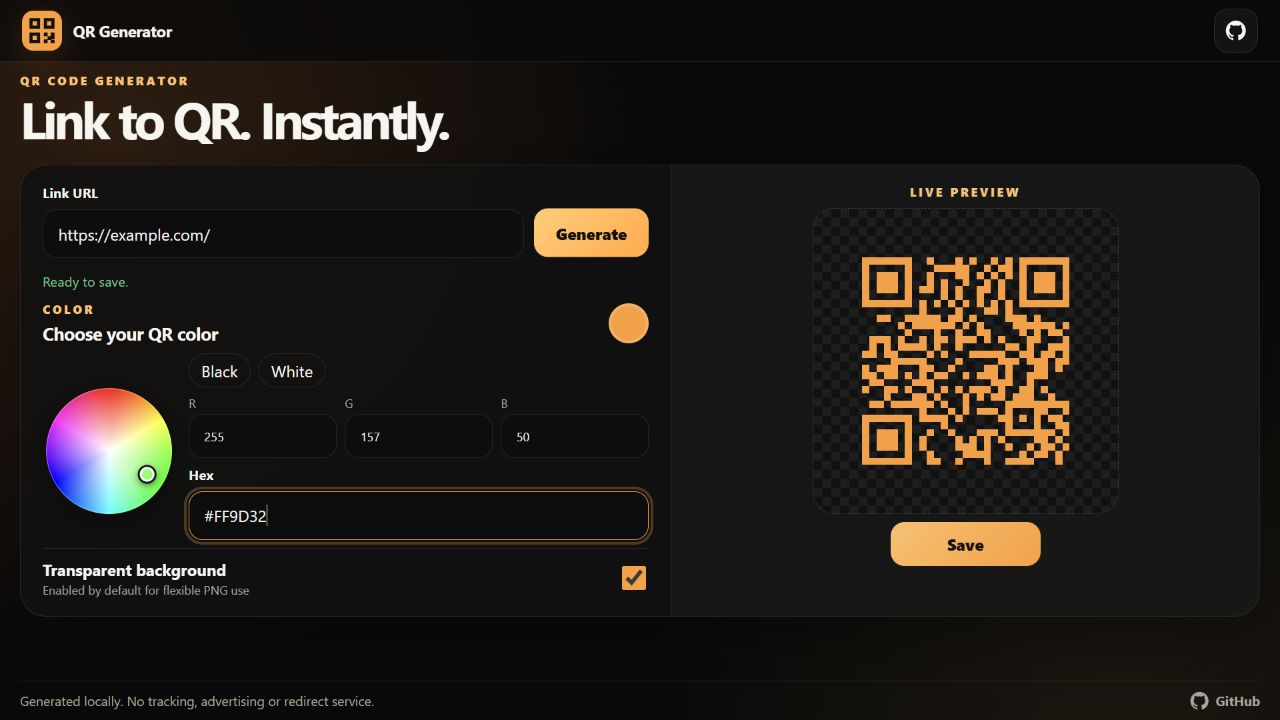
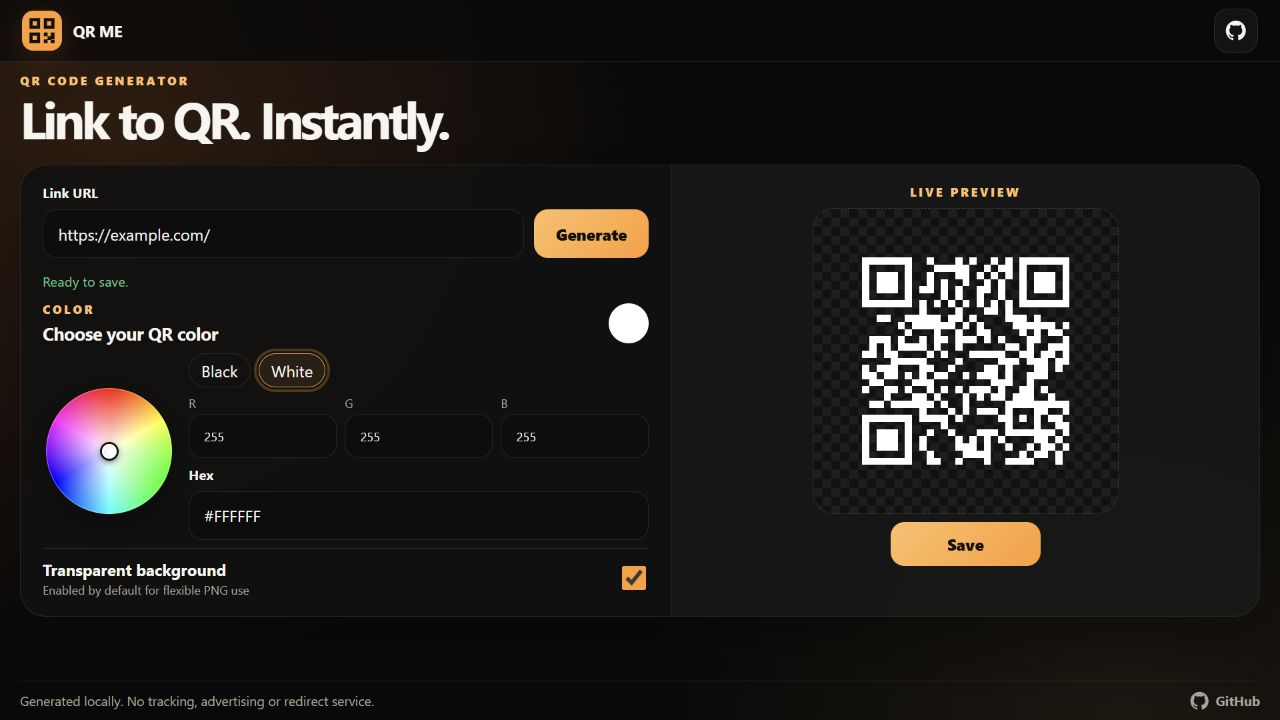
Update QR ME preview branding

diff --git a/index.html b/index.html
@@ -20,7 +20,7 @@
     <header class="site-header">
       <a class="brand" href="./" aria-label="QR Generator home">
         <img src="./static/icons/qr-logo.svg" alt="" width="44" height="44">
-        <span>QR Generator</span>
+        <span>QR ME</span>
       </a>
       <a class="github-button" href="https://github.com/jonaidaydi/QR-Generator" target="_blank" rel="noopener noreferrer" aria-label="Open this project on GitHub">
         <svg viewBox="0 0 24 24" aria-hidden="true"><path d="M12 .7a11.5 11.5 0 0 0-3.64 22.4c.58.1.79-.25.79-.56v-2.02c-3.23.7-3.91-1.37-3.91-1.37-.53-1.34-1.29-1.7-1.29-1.7-1.05-.72.08-.71.08-.71 1.17.08 1.78 1.2 1.78 1.2 1.04 1.77 2.72 1.26 3.38.96.1-.75.4-1.26.74-1.55-2.58-.3-5.29-1.3-5.29-5.69 0-1.26.45-2.29 1.19-3.1-.12-.3-.52-1.47.11-3.06 0 0 .97-.31 3.16 1.18A10.9 10.9 0 0 1 12 6.3c.98 0 1.95.13 2.86.39 2.2-1.49 3.16-1.18 3.16-1.18.63 1.59.23 2.77.11 3.06.74.81 1.19 1.84 1.19 3.1 0 4.4-2.72 5.39-5.31 5.68.42.36.79 1.07.79 2.16v3.03c0 .31.21.67.8.56A11.5 11.5 0 0 0 12 .7Z"/></svg>

diff --git a/service-worker.js b/service-worker.js
@@ -1,4 +1,4 @@
-const CACHE_NAME = "qr-generator-v2";
+const CACHE_NAME = "qr-generator-v2.0.1";
 const APP_SHELL = [
   "./",
   "./index.html",
